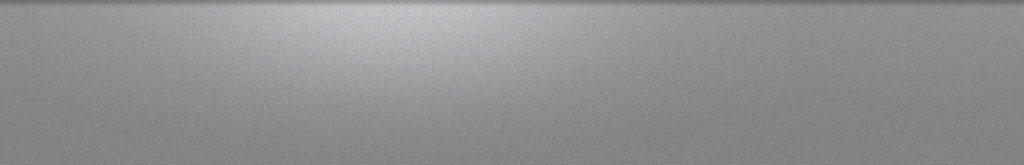
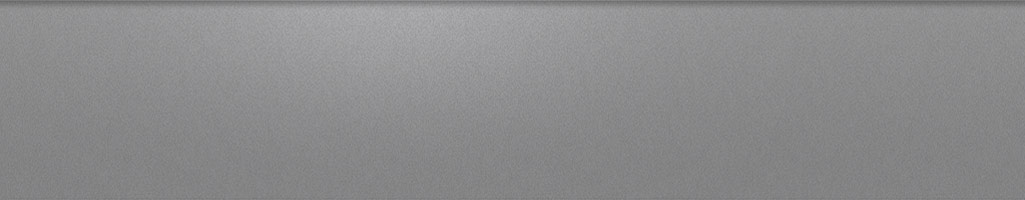
Updated footer to be taller and moved copyright

Changed region(s): [[0.2812, 0.0, 0.4688, 0.2727]]

diff --git a/wp-content/themes/boilerplate/style.css b/wp-content/themes/boilerplate/style.css
@@ -4,6 +4,7 @@ Author: Maxwell Ponte and Sanford Morton
 Version: 2.6
 */
 /* Colors from the official Dialog branding document */
+/* Quick Access Variables */
 /* ==========================================================================
    HTML5 display definitions
    ========================================================================== */
@@ -747,10 +748,10 @@ html, body {
   min-height: 100%;
   height: auto !important;
   height: 100%;
-  margin: 0px auto -195px; }
+  margin: 0px auto -200px; }
 
 .push {
-  height: 195px; }
+  height: 200px; }
 
 a {
   text-decoration: none; }
@@ -1183,7 +1184,7 @@ down every time */
       font-size: 11.5px;
       color: #33332f; }
   .footer-wrap .footer-inner {
-    height: 195px;
+    height: 200px;
     padding: 20px 0 0 0;
     margin: 0 auto;
     width: 1024px;
@@ -1194,7 +1195,7 @@ down every time */
   #menu-top-navigation-1 > li {
     display: inline-block;
     width: 8%;
-    height: 180px;
+    height: 185px;
     padding: 0 1% 30px 1%;
     text-align: left;
     word-wrap: break-word;
@@ -1223,7 +1224,7 @@ down every time */
   list-style: none; }
   #menu-dlg_footer > li {
     padding: 0;
-    margin-right: 62px;
+    margin-right: 45px;
     display: block;
     float: left; }
     #menu-dlg_footer > li > a {
@@ -1241,8 +1242,9 @@ down every time */
 
 .copyright {
   position: absolute;
-  left: 825px;
-  top: 55px; }
+  left: 684px;
+  top: 130px;
+  width: 175px; }
   .copyright hr {
     border-color: #5b5b5c;
     margin-bottom: 7px; }

diff --git a/wp-content/themes/boilerplate/style.scss b/wp-content/themes/boilerplate/style.scss
@@ -7,7 +7,7 @@ Version: 2.6
 $font-stack: "pragmatica-web","HelveticaNeue-Light", "Helvetica Neue Light", "Helvetica Neue", Helvetica, Arial, "Lucida Grande", sans-serif; 
 $nav-font-stack: Arial, sans-serif;
 $heading-font-stack: hvnStd_LiteCn, "pragmatica-web", "HelveticaNeue-Light", "Helvetica Neue Light", "Helvetica Neue", Helvetica, Arial, "Lucida Grande", sans-serif;
-$footer-height: 195px;
+
 
 /* Colors from the official Dialog branding document */
 $dialogblue: #518fcc;
@@ -24,6 +24,11 @@ $grey4: #e6e7e8;
 $beige: #c5c19d;
 $beige2: #e1dcc9;
 $beige3: #f4f1e9;
+
+/* Quick Access Variables */
+$footer-height: 200px;
+$footer-margin: 45px;
+
 
 @import 'normalize', 'basic', 'cta', 'logo', 'social', 'topnav',
         'slideshow', 'fp-testimonials', 'three-column', 'internal-header',

diff --git a/wp-content/themes/boilerplate/_footer.scss b/wp-content/themes/boilerplate/_footer.scss
@@ -60,7 +60,7 @@
   list-style: none;
   & > li {
     padding: 0;
-    margin-right: 62px;
+    margin-right: $footer-margin;
     display: block;
     float: left;
     & > a {
@@ -83,8 +83,9 @@
 
 .copyright {
     position: absolute;
-    left: 825px;
-    top: 55px;
+    left: 684px;
+    top: 130px;
+    width: 175px;
     hr {
       border-color: #5b5b5c;
       margin-bottom: 7px;
